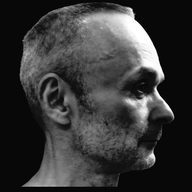
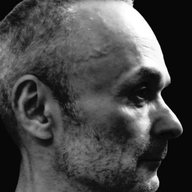
baa: круглый портрет; подпись — Feedback methodologist
Портрет на странице скруглён и перекадрирован под круг (голова по центру).
Под именем теперь только «Feedback methodologist», без «Psychologist»;
то же в описании страницы и в разметке schema.org.

Claude-Session: https://claude.ai/code/session_01BDtVaUdwnBKSxykXmhjaAn

diff --git a/baa/index.html b/baa/index.html
@@ -11,12 +11,12 @@
 <link rel="icon" type="image/png" sizes="192x192" href="assets/icon-192.png?v=2">
 <link rel="apple-touch-icon" href="assets/apple-touch-icon.png">
 <meta name="claude:viewport-fit-sides" content="cover">
-<meta name="description" content="People don’t see what they actually do without a useful feedback loop. Alexander Belyshkin, a psychologist, has been learning to build such loops since 1997 and helping others build them: in interruption research, in usability research and user testing at Usethics, and now in feedback tools.">
+<meta name="description" content="People don’t see what they actually do without a useful feedback loop. Alexander Belyshkin, a feedback methodologist, has been learning to build such loops since 1997 and helping others build them: in interruption research, in usability research and user testing at Usethics, and now in feedback tools.">
 <meta name="color-scheme" content="light">
 <meta name="robots" content="index, follow, max-snippet:-1, max-image-preview:large">
 <meta name="keywords" content="usability research, user testing, interruption research, feedback">
 <link rel="canonical" href="https://baa.playoftime.online/">
-<script type="application/ld+json">{"@context": "https://schema.org", "@type": "Person", "name": "Alexander Belyshkin", "alternateName": ["Alexandr Belyshkin", "Александр Белышкин"], "url": "https://baa.playoftime.online/", "description": "People don’t see what they actually do without a useful feedback loop. Alexander Belyshkin, a psychologist, has been learning to build such loops since 1997 and helping others build them: in interruption research, in usability research and user testing at Usethics, and now in feedback tools.", "alumniOf": "Lomonosov Moscow State University", "knowsAbout": ["usability research", "user testing", "interruption research", "feedback", "work psychology"]}</script>
+<script type="application/ld+json">{"@context": "https://schema.org", "@type": "Person", "name": "Alexander Belyshkin", "alternateName": ["Alexandr Belyshkin", "Александр Белышкин"], "url": "https://baa.playoftime.online/", "description": "People don’t see what they actually do without a useful feedback loop. Alexander Belyshkin, a feedback methodologist, has been learning to build such loops since 1997 and helping others build them: in interruption research, in usability research and user testing at Usethics, and now in feedback tools.", "alumniOf": "Lomonosov Moscow State University", "knowsAbout": ["usability research", "user testing", "interruption research", "feedback", "work psychology"], "jobTitle": "Feedback methodologist"}</script>
 <link rel="preconnect" href="https://fonts.googleapis.com">
 <link rel="preconnect" href="https://fonts.gstatic.com" crossorigin>
 <link rel="stylesheet" href="https://fonts.googleapis.com/css2?family=Hanken+Grotesk:wght@400;500;700&family=Source+Serif+4:ital,opsz,wght@0,8..60,400;0,8..60,600;1,8..60,400&display=swap">
@@ -51,7 +51,7 @@ a:hover { text-decoration-thickness: 2px; }
   padding-right: max(20px, env(safe-area-inset-right, 0px));
 }
 .who { display: flex; align-items: center; gap: 16px; margin-bottom: clamp(32px, 6vw, 64px); font-family: var(--sans); font-size: 15px; line-height: 1.35; }
-.who img { width: 96px; height: 96px; display: block; flex: none; }
+.who img { width: 96px; height: 96px; display: block; flex: none; border-radius: 50%; object-fit: cover; }
 .who p { margin: 0; }
 .intro {
   margin: 0 0 22px;
@@ -124,8 +124,8 @@ footer { display: flex; flex-wrap: wrap; justify-content: space-between; gap: 6p
 <!--body:start-->
 <main class="wrap">
   <header class="who">
-    <img src="assets/portrait.jpg" width="96" height="96" alt="Alexander Belyshkin, in profile">
-    <p><strong>Alexander Belyshkin</strong><br>Psychologist, methodologist</p>
+    <img src="assets/portrait.jpg?v=2" width="96" height="96" alt="Alexander Belyshkin, in profile">
+    <p><strong>Alexander Belyshkin</strong><br>Feedback methodologist</p>
   </header>
   <h1 class="intro">People don’t see what they actually do without a useful feedback loop. Since 1997 I have been learning to build such loops, and helping others build them.</h1>
   <p class="lede">I started in a university lab, built them for companies for twenty years, then for myself. Now I make tools that give anyone one.</p>
